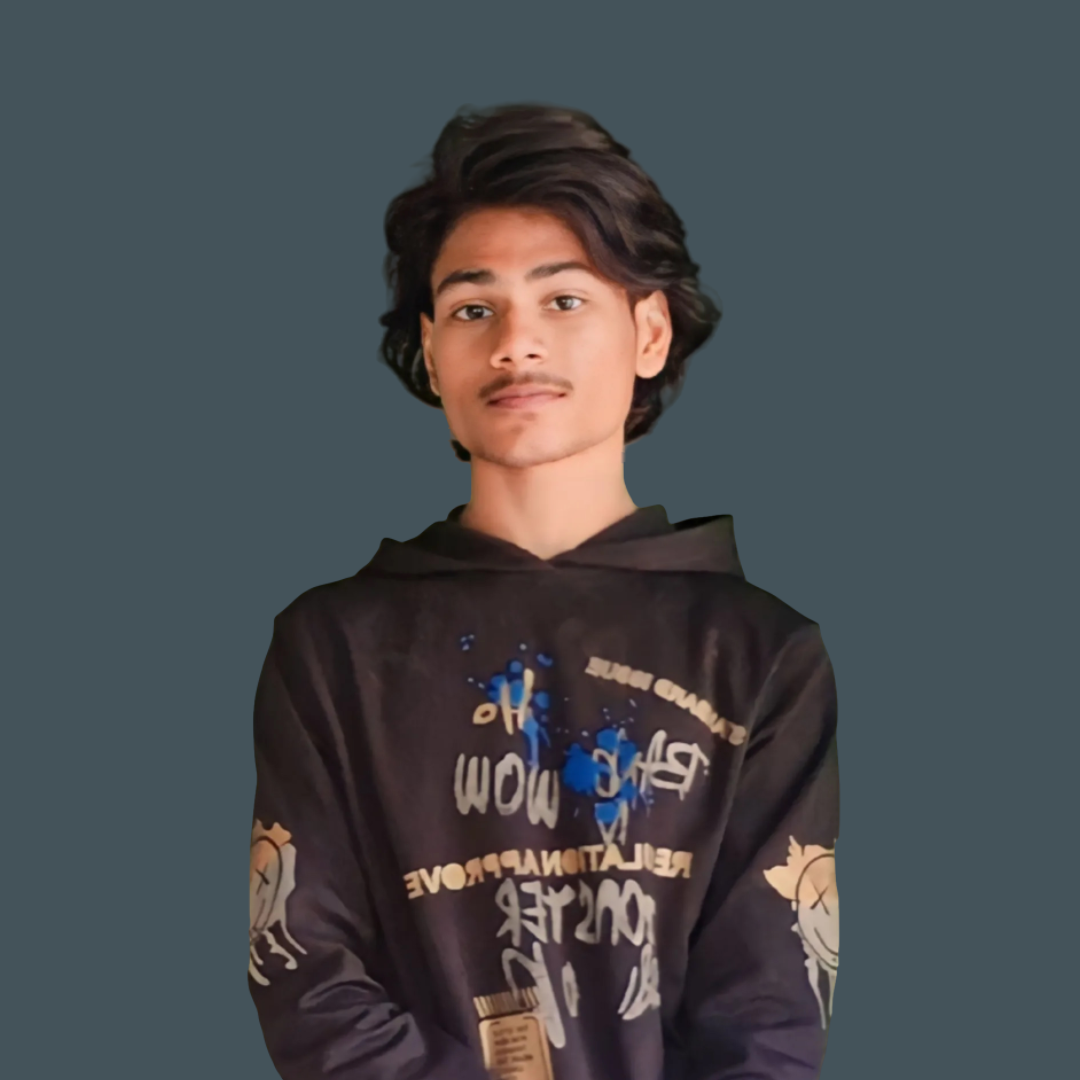
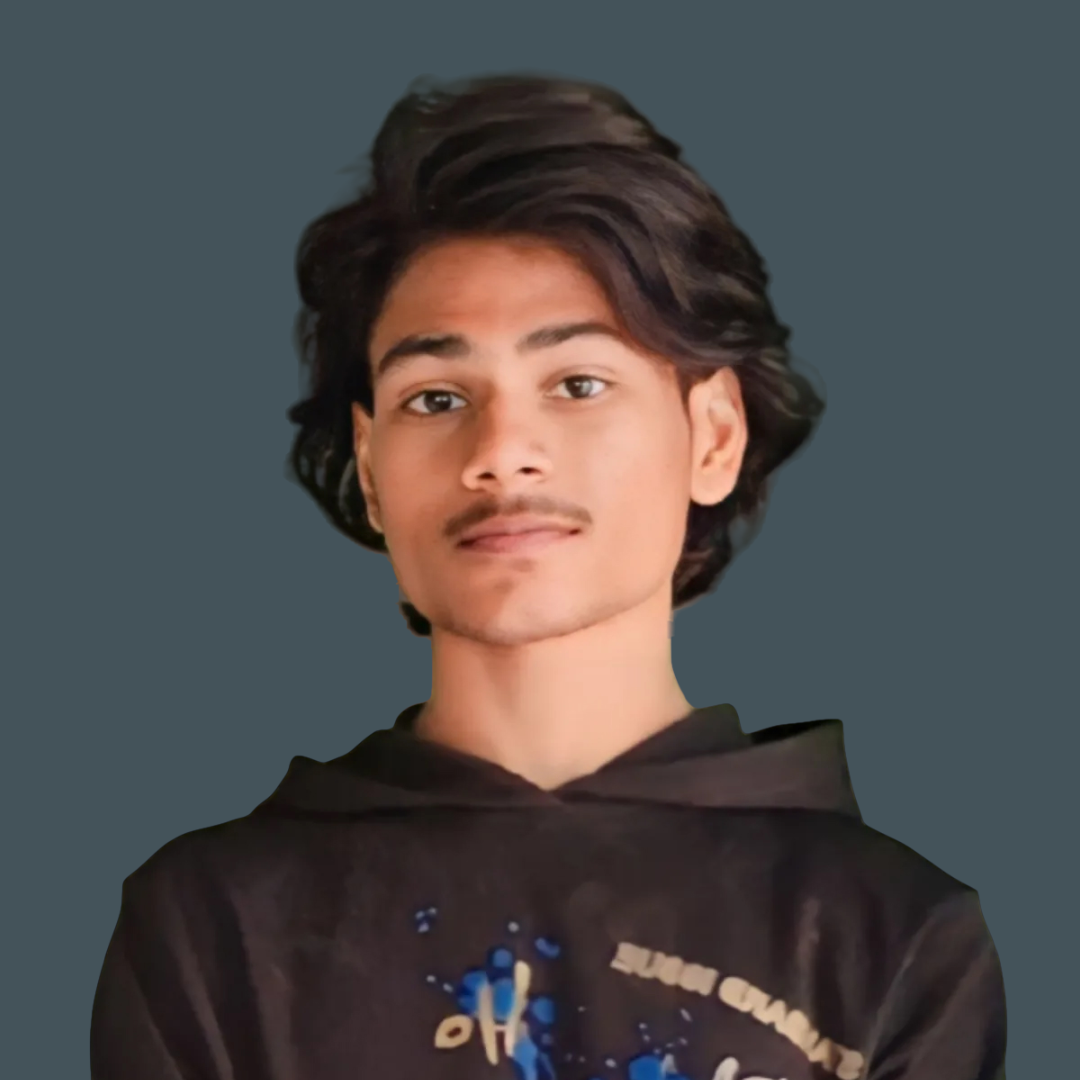
profile section done

diff --git a/style.css b/style.css
@@ -85,7 +85,8 @@ align-items: end;
 }
 .profile-main{
     display: flex;
-    justify-content: center;
+    justify-content: flex-start;
+    flex-direction: column;
     width: 89%;
     height: 100%;
     /* border: 0.1px solid white; */
@@ -94,7 +95,7 @@ align-items: end;
 .profile-box{
     display: flex;
     align-items: center;
-    height: 50%;
+    height: 60%;
     width: 100%;
 }
 
@@ -111,6 +112,9 @@ align-items: end;
     height: 14rem;
     width: 14rem;
     background-color: rgb(255, 255, 255);
+    background-image: url('assets/Profile.png');
+    background-size: cover;
+    
 }
 
 .profile-text{
@@ -138,5 +142,57 @@ align-items: end;
     font-size: 2rem;
     font-weight: 400;
     color: #d3d4d5;
+    /* padding-top: 1rem; */
 }
 
+.about-area{
+    /* display: flex; */
+    justify-content: center;
+    flex-direction: column;
+    width: 100%;
+    height: 40%;
+}
+.about-cmd{
+    display: flex;
+    align-items: center;
+    
+    width: 30%;
+}
+
+.about-cmd h2{
+    font-weight: 400;
+    font-size: 1.35rem;
+    color: #75797e;
+}
+
+.about-contant{
+    height: 55%;
+    width: 100%;
+    background-color: rgba(23,28,31,1);
+    border: 0.5px solid rgba(255, 255, 255, 0.1);
+    border-radius: 0.5rem;
+    margin-top: 1rem;
+}
+
+.about-text{
+    margin-left: 1rem;
+    margin-top: 0.5rem;
+     margin-right: 1rem;
+    background-color: transparent;
+}
+
+.about-text h2{
+    font-size: 1.1rem;
+    font-weight: 500;
+    color: rgb(255, 255, 255);
+    background-color: transparent;
+}
+
+.about-text p{
+    font-size: 0.9rem;
+    font-weight: 400;
+    color: #d3d4d5;
+    background-color: transparent;
+    margin-top: 0.5rem;
+
+}

diff --git a/index.html b/index.html
@@ -34,6 +34,16 @@
                             <h3>#TheCreater passionate about creating things.</h3> 
                         </div>
                     </div>
+                    <div class="about-area">
+                        <div class="about-cmd"><h2>About --Me</h2></div>
+                        <div class="about-contant">
+                            <div class="about-text">
+                                <h2>Hi, I'm Pritam Raut</h2>
+                                <p>I'm a Full Stack Web Developer with a passion for creating impactful and efficient digital solutions. I love building things from scratch turning ideas into interactive, user-friendly web applications. My curiosity extends beyond traditional development into the exciting fields of Artificial Intelligence, Machine Learning, and Robotics. I'm fascinated by how these technologies can be integrated to solve real-world problems and drive innovation. I enjoy learning new tools and frameworks, constantly challenging myself to grow as a developer. Whether it's designing responsive front-end interfaces or building powerful back-end systems, I strive to write clean, scalable, and efficient code that makes a difference.</p>
+                            </div>
+                            
+                        </div>
+                    </div>
                 </div>
             </div>
         </section>
